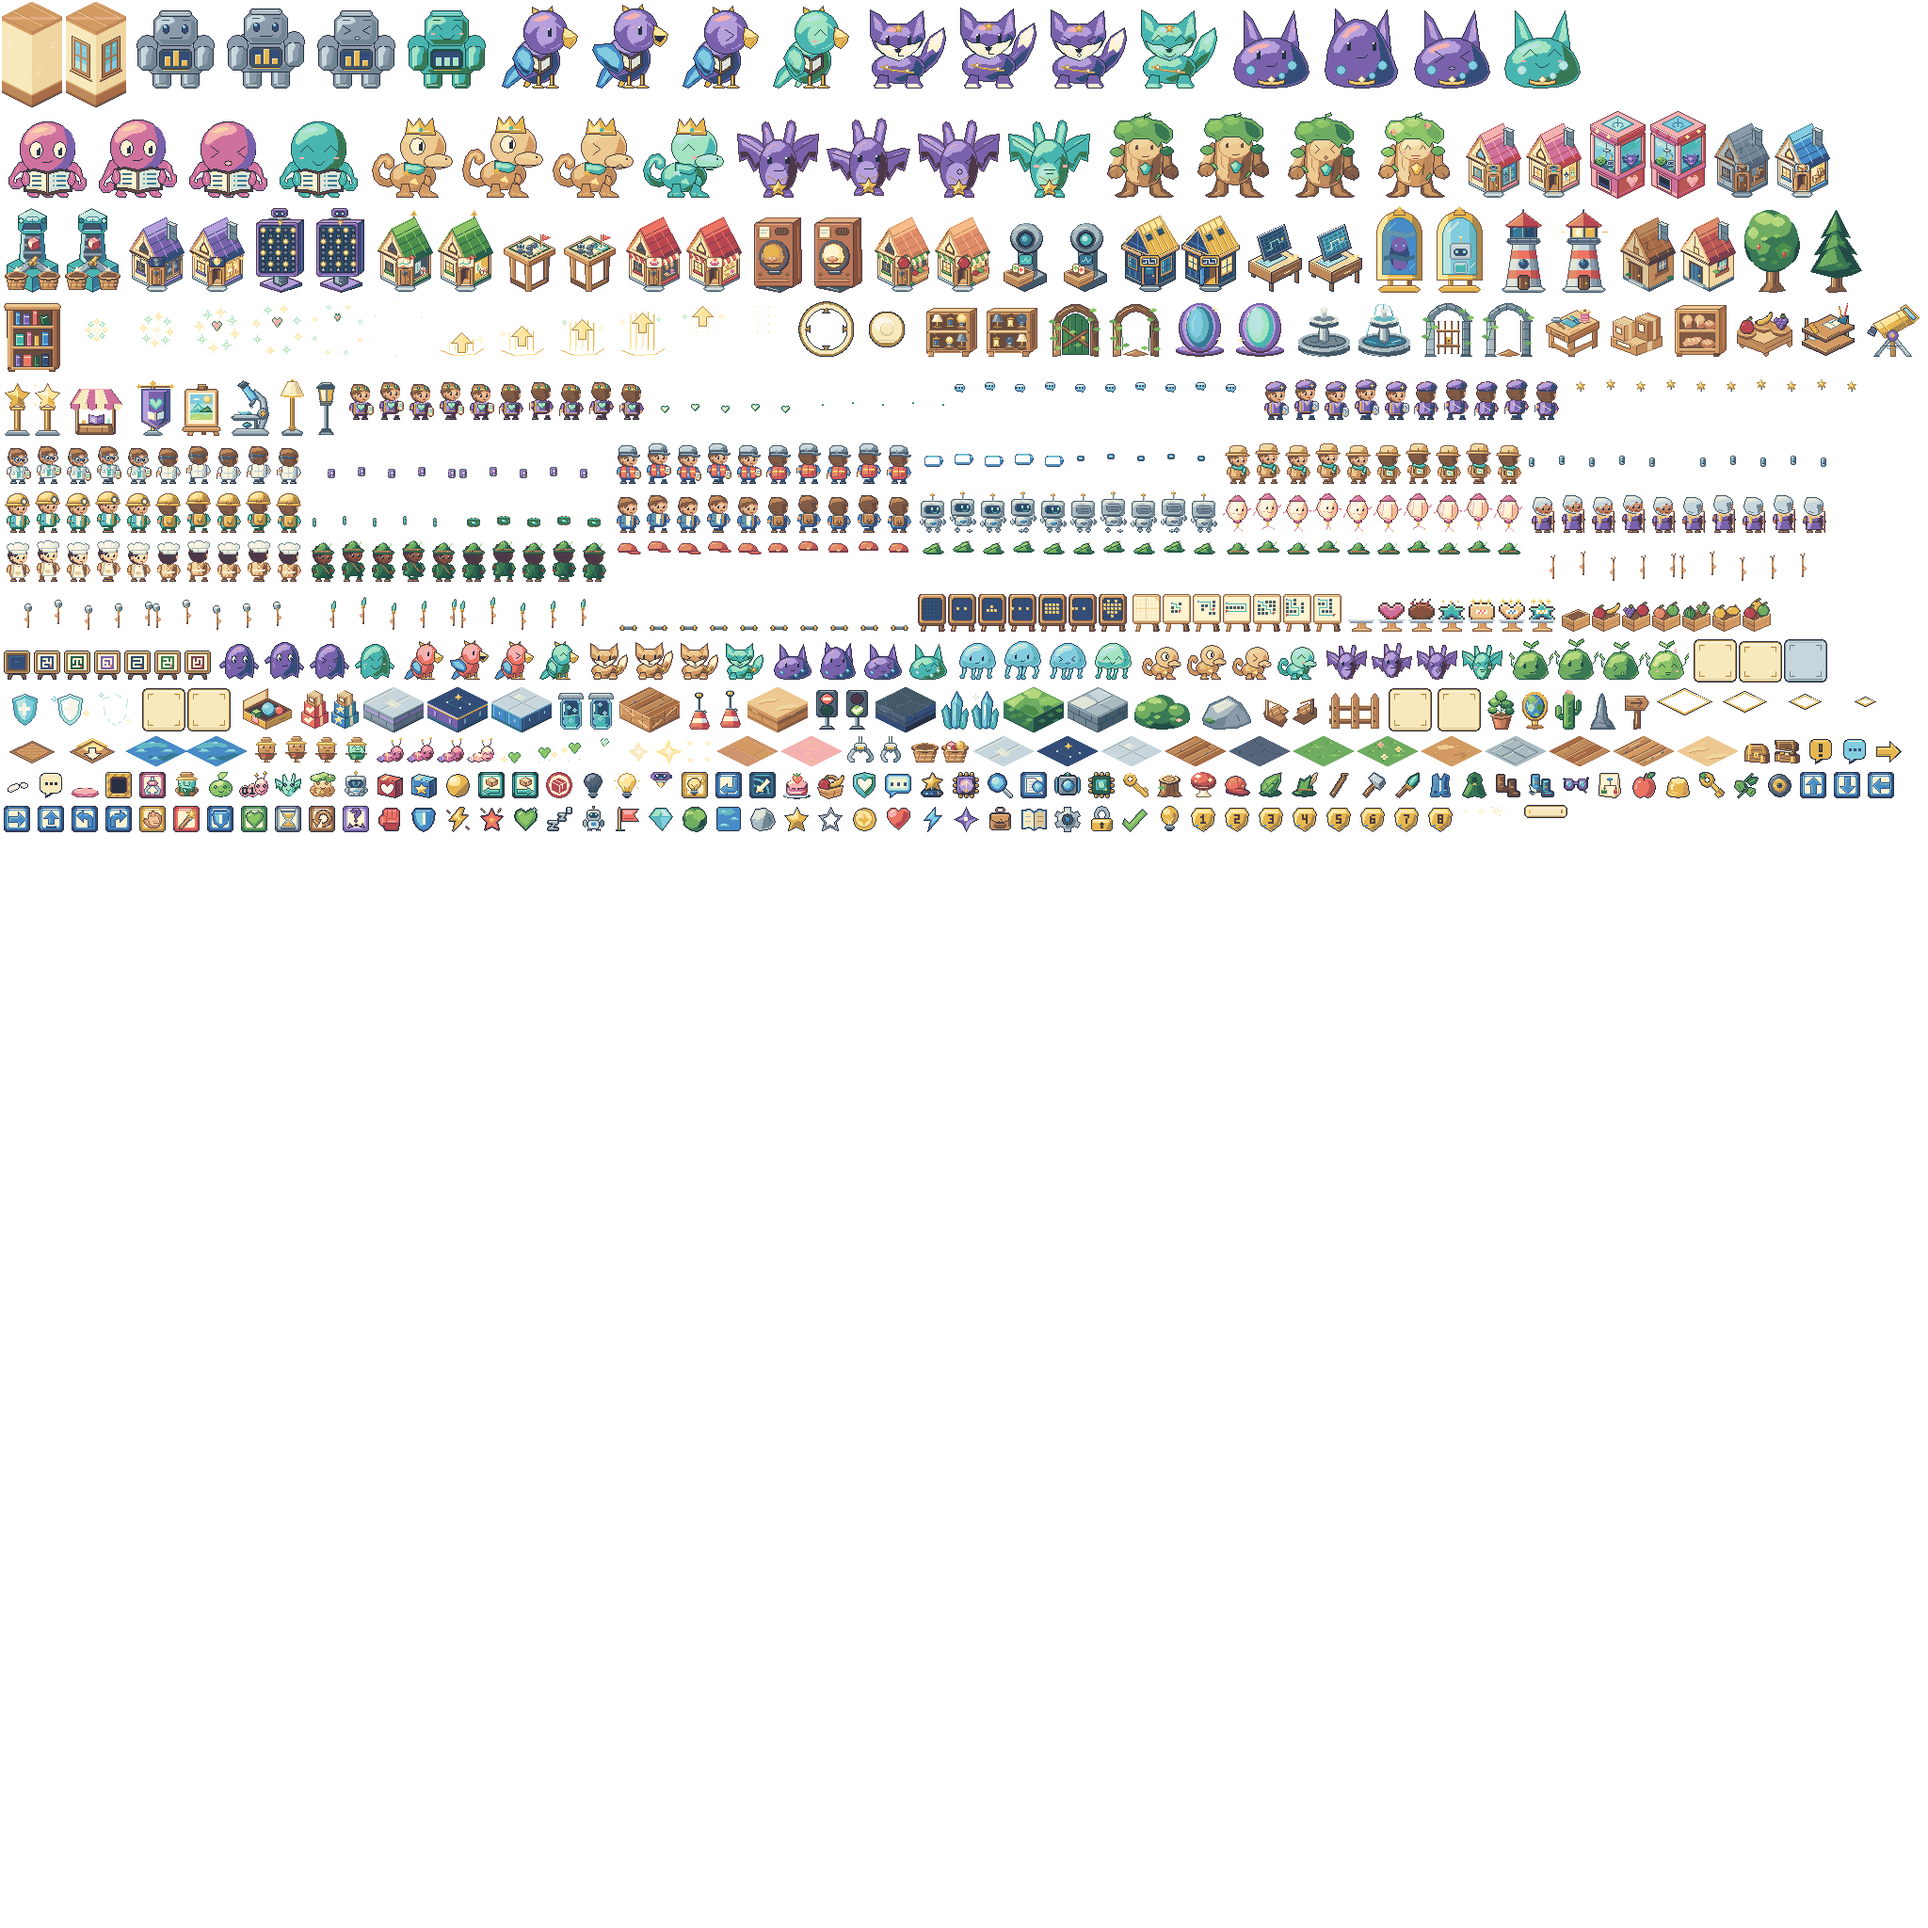
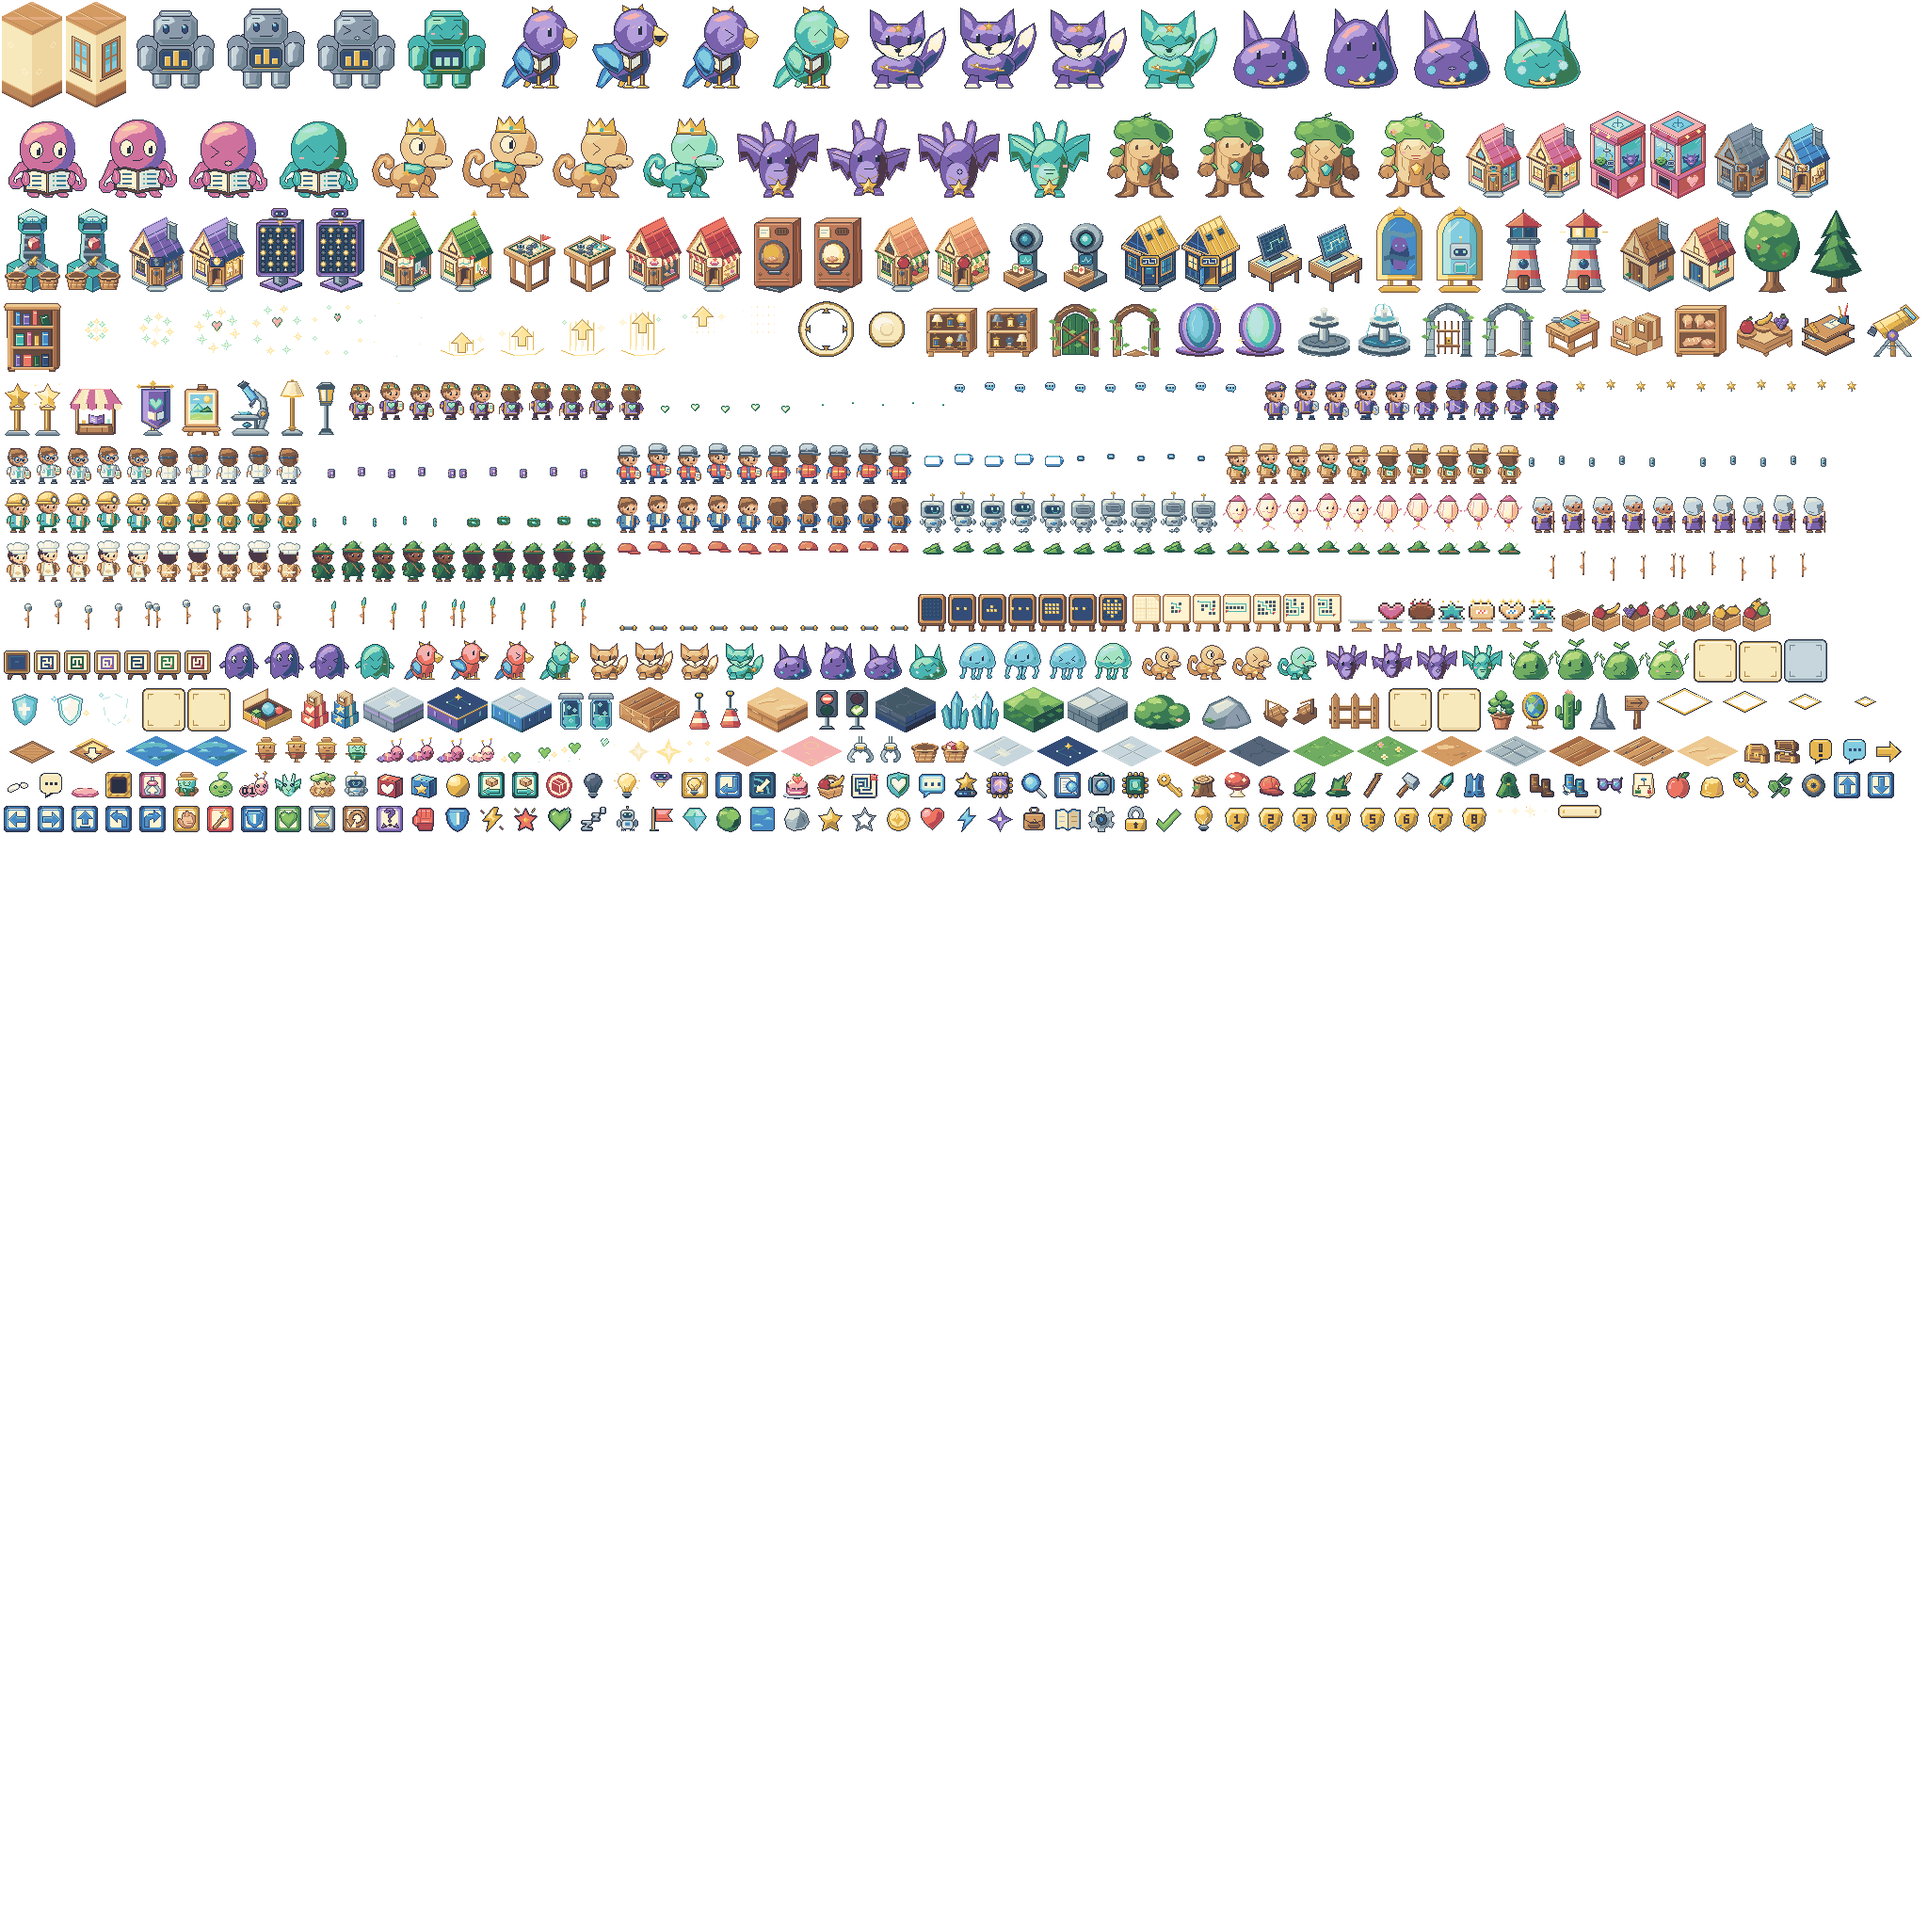
C24-6: 미로 아이콘과 최종 플레이 확인

Changed region(s): [[0.0625, 0.375, 0.9375, 0.4375]]

diff --git a/docs/tasks/codex-24-progress.md b/docs/tasks/codex-24-progress.md
@@ -30,3 +30,11 @@
 팔레트 외 색·반투명 픽셀 0개, 발 아래 빈 줄은 모두 4px예요. 검토판 assets-preview/compare-24-1.png에는 임시/새 그림, 빈 방/완성 방을 담았어요. 임시 PNG는 저장소 외부, 검토판은 기존 규칙에 따라 로컬에 있어요. 실제 마을 문을 눌러 방에 들어가 빈 액자 6개를 확인하고, 전시용 플래그를 켜서 1~6 그림을 확인했어요. 4단계에서는 직접 푼 결과로도 확인했어요.
 
 npm run assets(2배 246개·2048×2048), npm test(35파일·433개), npm run build 성공. 다음 단계는 아이콘이에요.
+
+## 6단계 · 미로 아이콘과 최종 플레이 확인
+
+접힌 크림색 도면, 남색 미로 벽, 청록 경로와 빨간 도착 깃발을 32×32 아이콘에 그렸어요. assets-preview/compare-24-2.png에서 어두운 창과 크림 바탕에 48px·28px를 비교했고 판 카드가 32px 원본을 48px로 표시하는 것도 확인했어요.
+
+최종 그림으로 마을 건물을 눌러 방에 들어가 빈 액자·완성 액자 6개를 확인했어요. 일반과 시연에서 각각 6판을 다시 직접 설계·실행해 별 18개와 작품 6개씩 얻고, 새로고침 뒤 칭호와 액자도 복원했어요. 일반 4·5판은 먼저 잠금을 확인한 뒤 시험용 부품을 넣었어요. 일반 1판 작품을 시연 6판에 입력했고 1366×768, 390×844, 320×640에서 설계·실행 화면 격자와 단추 가로 넘침·페이지 예외 0건이었어요. 별도 시연에서 키보드로 길을 놓고 4걸음 미로를 6걸음으로 풀어 별 2개를 받았고, 코드 복사 뒤 시스템 클립보드와 표시 코드가 같았어요.
+
+npm run assets 성공(247개 모두 density 2, 누락 0, 2048×2048), npm test 35파일·433개 통과, npm run build 통과. 실제 휴대폰 터치, 화면 낭독기, 학생 수업은 미확인이에요. Claude는 5판에서 ‘물결 따라가기’를 처음 읽는 학생의 이해도와 4·5판 판정 및 새 저장 필드 정리, 시연 목록·등록기 연결을 함께 검토해 주세요. 현재 후속 구현이나 지시서 밖 필요한 변경은 없어요.
